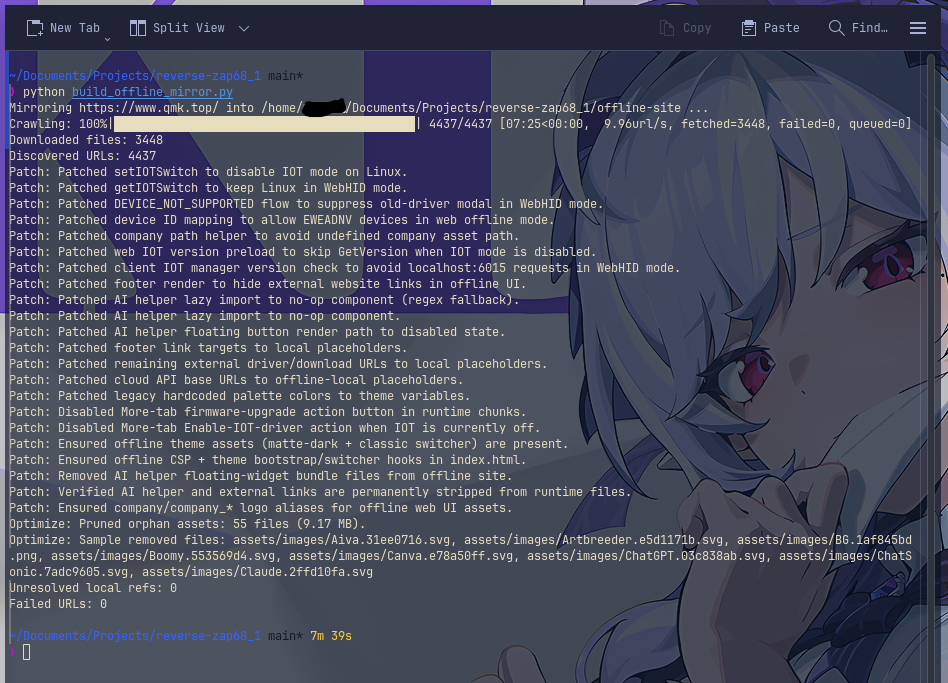
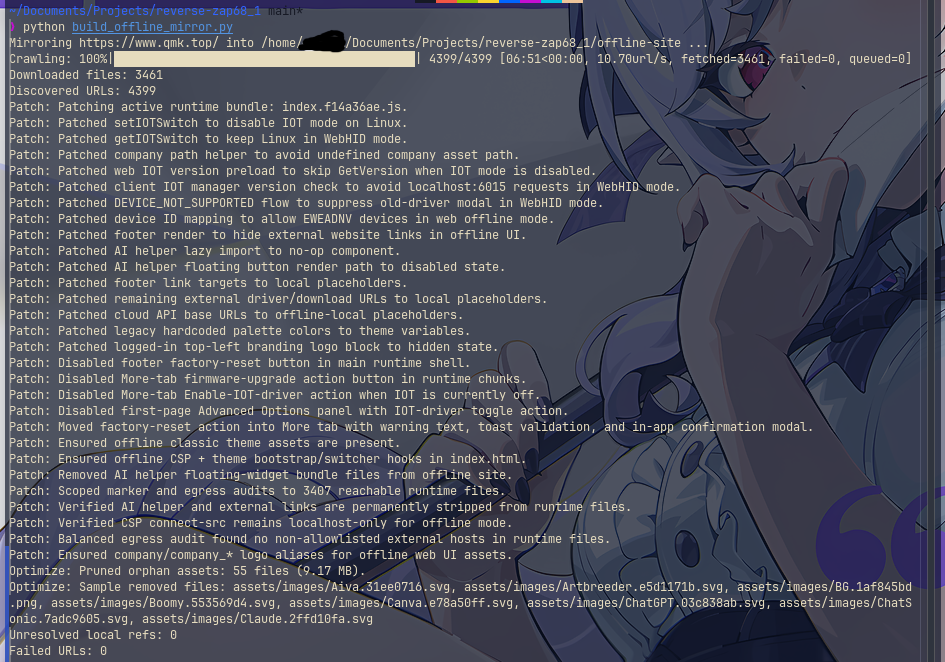
rebrand project as OpenKeeb and simplify onboarding
Make the repo ready to publish under OpenKeeb with clearer step-by-step setup docs, including build progress expectations and screenshot guidance for new users.

diff --git a/README.md b/README.md
@@ -2,8 +2,6 @@
 
 OpenKeeb is an offline Linux-friendly mirror and patch tool for the `https://www.qmk.top/` web driver.
 
-This project was previously named `reverse-zap68`. For compatibility, some internal module and command names still use legacy `offline_mirror` naming.
-
 ## Quick start for new users
 
 Follow these steps in order.
@@ -46,6 +44,10 @@ pip install -e .
 ```bash
 python build_offline_mirror.py
 ```
+
+The build will take some time. You will see a progress bar and patch steps in the terminal while it runs.
+
+![Build progress and patch output in terminal](image/rebuild.png)
 
 ### 6) Run the local server
 
@@ -144,6 +146,5 @@ sudo udevadm trigger
 
 ## Additional docs
 
-- Project history and chronology: `docs/history.md`
 - Generated-output note for mirror root: `offline-site/README.md`
 - Legal/compliance details: `LEGAL.md`
